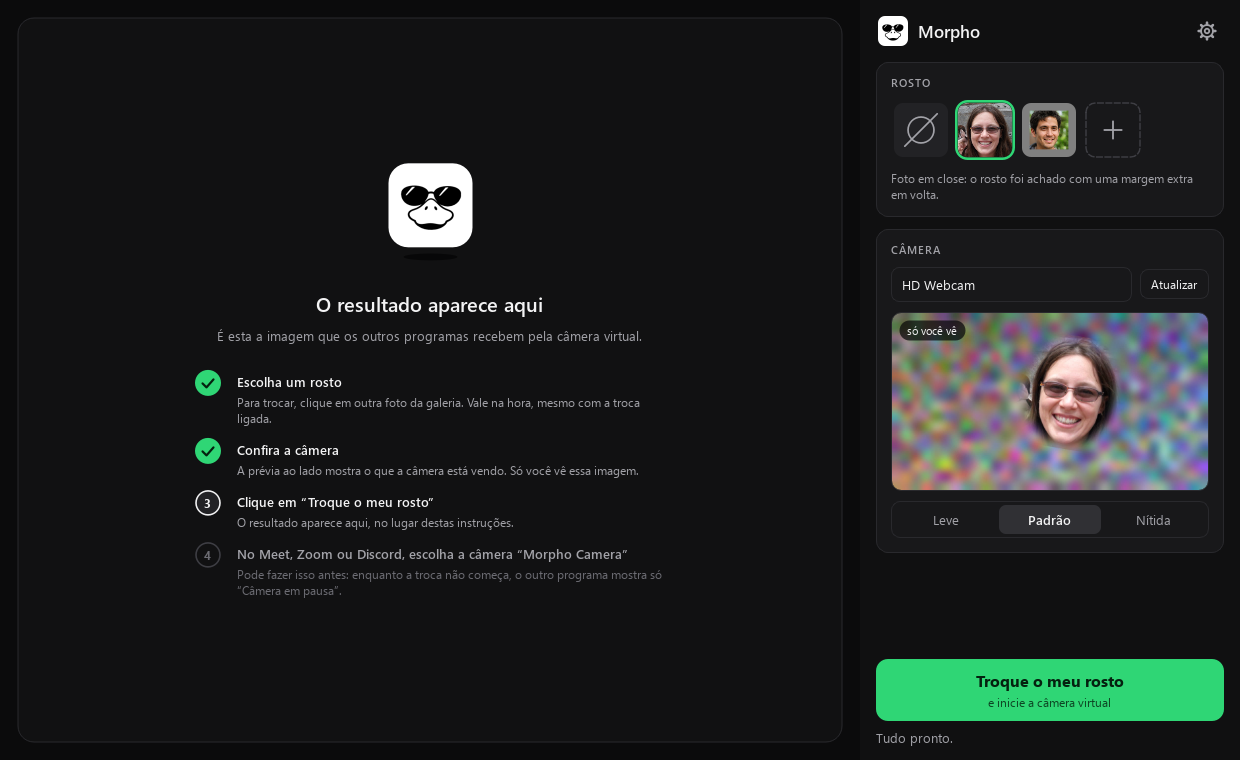
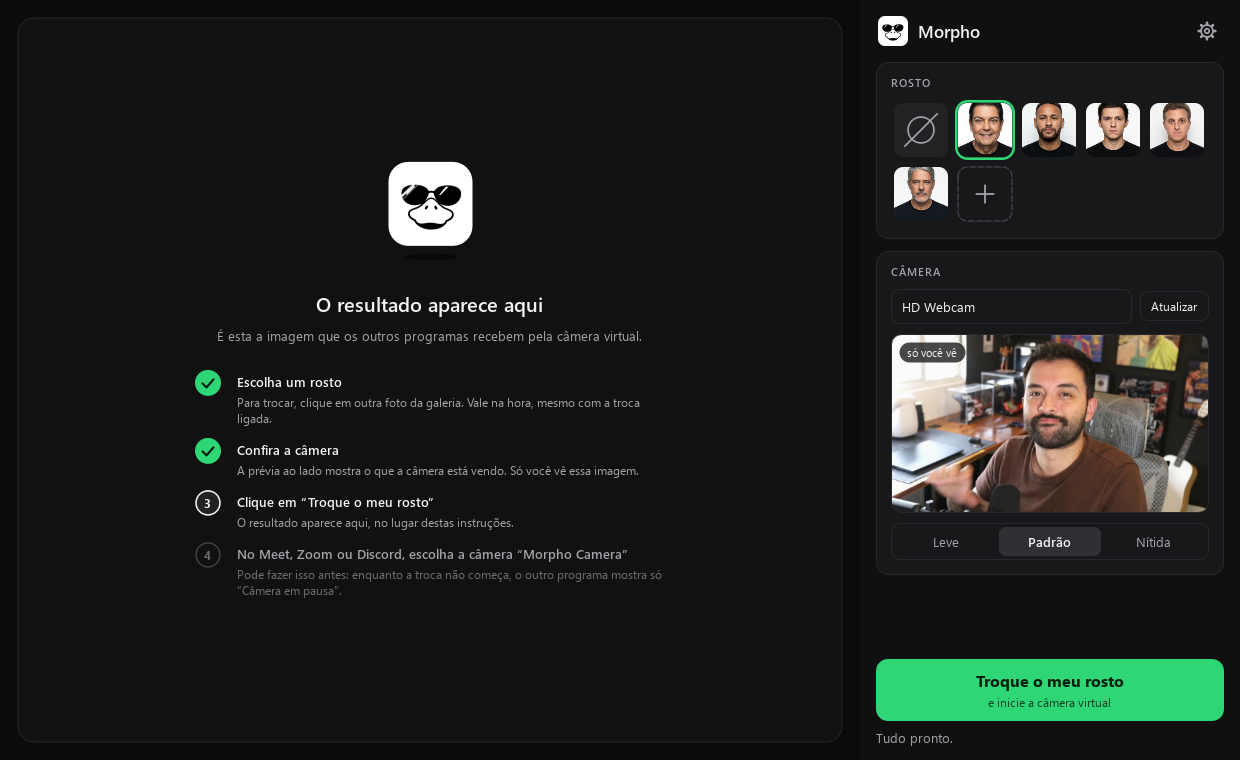
Capturas do README com a gravação e os rostos da demonstração
- docs/telas: as cinco capturas da janela agora usam a gravação e os rostos da
  demonstração da página (com autorização), no lugar das imagens de teste
- bench/make_screenshots.py gera as capturas com a janela de verdade, sem
  mostrá-la e sem transmitir pela câmera virtual

Changed region(s): [[0.7048, 0.3026, 0.9806, 0.7566], [0.7048, 0.1211, 0.9806, 0.2724], [0.3065, 0.2118, 0.3677, 0.3329]]

diff --git a/bench/make_screenshots.py b/bench/make_screenshots.py
@@ -1,0 +1,178 @@
+"""Gera as capturas de ``docs/telas`` com a janela de verdade, sem mostrá-la.
+
+    <python do motor> bench/make_screenshots.py --replay VIDEO --faces FOTO [FOTO ...] --out PASTA
+                                                [--camera NOME]
+
+Abre o app com um vídeo no lugar da webcam e grava em PASTA: ``carregando``, ``configuracoes``
+e várias opções de ``instrucoes-N``, ``tema-claro-N`` e ``ao-vivo-F-N`` (uma série por foto da
+galeria), tiradas em momentos diferentes do vídeo. É só escolher a melhor de cada e copiá-la
+para ``docs/telas`` sem o número. ``--camera`` é só o nome mostrado no campo da câmera: com
+``--replay`` a webcam não é aberta.
+
+A janela aparece como no uso comum, com a câmera virtual ligada nas configurações, mas nenhum
+quadro é enviado a ela: o pedido é desligado antes de chegar ao motor, para o vídeo de teste
+não aparecer numa chamada que esteja aberta neste computador.
+
+Usa a pasta de dados de teste (``MORPHO_DATA_DIR``) e a deixa como a encontrou. Em material
+público, só gravações e fotos de quem autorizou.
+"""
+from __future__ import annotations
+
+import argparse
+import json
+import os
+import shutil
+import sys
+import time
+
+PROJECT = os.path.dirname(os.path.dirname(os.path.abspath(__file__)))
+sys.path.insert(0, PROJECT)
+os.environ.setdefault("MORPHO_DATA_DIR", r"C:\Users\vinic\dlc-lab\app-data-test")
+os.environ["QT_QPA_PLATFORM"] = "offscreen"
+os.environ.setdefault("QT_QPA_FONTDIR", r"C:\Windows\Fonts")
+
+SIZE = (1240, 760)
+
+
+def main() -> int:
+    parser = argparse.ArgumentParser(description=__doc__, formatter_class=argparse.RawDescriptionHelpFormatter)
+    parser.add_argument("--replay", required=True, help="vídeo usado no lugar da câmera")
+    parser.add_argument("--faces", nargs="+", required=True, help="fotos da galeria, na ordem em que aparecem")
+    parser.add_argument("--out", required=True, help="pasta das capturas")
+    parser.add_argument("--camera", help="nome que aparece no campo da câmera (a webcam não é aberta)")
+    parser.add_argument("--ready-shots", type=int, default=6, help="opções de instrucoes e de tema-claro")
+    parser.add_argument("--live-shots", type=int, default=4, help="capturas ao vivo por foto")
+    options = parser.parse_args()
+    os.makedirs(options.out, exist_ok=True)
+
+    from app import paths
+    settings_file = os.path.join(paths.data_dir(), "settings.json")
+    backup = settings_file + ".antes-das-capturas"
+    if os.path.isfile(settings_file):
+        shutil.copyfile(settings_file, backup)
+    faces = [os.path.abspath(p) for p in options.faces]
+    with open(settings_file, "w", encoding="utf-8") as f:
+        json.dump(dict(faces=faces, face=faces[0], virtual_camera=True, preview=True, theme="dark",
+                       show_fps=True, show_faces=False), f)
+
+    sys.argv = [sys.argv[0], "--offscreen", "--replay", options.replay]
+    if options.camera:
+        sys.argv += ["--camera", options.camera]
+    from PySide6.QtCore import Qt
+    from PySide6.QtTest import QTest
+    from PySide6.QtWidgets import QApplication
+
+    from app.ui.__main__ import parse_args
+    from app.ui.engine_process import EngineProcess
+    from app.ui.main_window import MainWindow
+
+    # A tela mostra a câmera virtual ligada, mas o motor nunca recebe o pedido de transmitir.
+    real_send = EngineProcess.send
+
+    def send_without_camera(self, **command):
+        if command.get("virtual_camera"):
+            command["virtual_camera"] = False
+        return real_send(self, **command)
+
+    EngineProcess.send = send_without_camera
+
+    app = QApplication(sys.argv[:1])
+    window = MainWindow(parse_args())
+    window.resize(*SIZE)
+    window.show()
+
+    def wait(condition, seconds: float) -> bool:
+        deadline = time.time() + seconds
+        while time.time() < deadline:
+            app.processEvents()
+            if condition():
+                return True
+            time.sleep(0.01)
+        return False
+
+    def pause(seconds: float) -> None:
+        wait(lambda: False, seconds)
+
+    def shot(name: str) -> None:
+        window.grab().save(os.path.join(options.out, name + ".png"))
+        print("  " + name, flush=True)
+
+    def face_tiles():
+        return [t for t in window.gallery._tiles if t.kind == "face"]
+
+    def swap_fps() -> float:
+        stats = window.stats if (window.stats or {}).get("mode") == "live" else {}
+        return stats.get("swap_fps") or 0
+
+    transmitted = False
+    try:
+        # carregando: fica com a captura do meio da espera
+        loading = []
+        next_grab = time.time() + 0.6
+        deadline = time.time() + 240
+        while not window.loaded and time.time() < deadline:
+            app.processEvents()
+            if time.time() >= next_grab:
+                loading.append(window.grab())
+                next_grab = time.time() + 0.4
+            time.sleep(0.01)
+        if not window.loaded:
+            print("o motor não carregou")
+            return 1
+        if loading:
+            loading[len(loading) // 2].save(os.path.join(options.out, "carregando.png"))
+            print(f"  carregando ({len(loading)} opções, ficou a do meio)", flush=True)
+
+        ready = (wait(lambda: window.face_ok, 30) and wait(lambda: not window.view.celebrating, 10)
+                 and wait(lambda: bool(window.view.steps), 3)
+                 and wait(lambda: window.view.mascot.current() == "parado", 5))
+        pause(2.0)   # a prévia da câmera chega
+        print(f"pronto: {ready}; tamanho {window.width()}x{window.height()}", flush=True)
+        for number in range(1, options.ready_shots + 1):
+            shot(f"instrucoes-{number}")
+            pause(1.4)
+
+        window.theme_choice._group.buttons()[1].click()
+        pause(0.4)
+        for number in range(1, options.ready_shots + 1):
+            shot(f"tema-claro-{number}")
+            pause(1.4)
+        window.theme_choice._group.buttons()[0].click()
+        pause(0.4)
+
+        window.open_page(1)
+        pause(0.4)
+        shot("configuracoes")
+        window.open_page(0)
+        pause(0.3)
+
+        QTest.mouseClick(window.button, Qt.MouseButton.LeftButton)
+        live = wait(lambda: window.state == "running" and window.view.has_frame(), 40) and wait(lambda: swap_fps() > 15, 30)
+        print(f"ao vivo: {live}, {swap_fps():.0f} trocas por segundo", flush=True)
+        for index in range(len(face_tiles())):
+            if index:
+                QTest.mouseClick(face_tiles()[index], Qt.MouseButton.LeftButton)
+                window.refresh()
+            wait(lambda: window.face_ok and swap_fps() > 15, 20)
+            pause(2.5)
+            for number in range(1, options.live_shots + 1):
+                transmitted = transmitted or window.vcam_on
+                shot(f"ao-vivo-{index + 1}-{number}")
+                pause(1.3)
+            print(f"    foto {index + 1}: {swap_fps():.0f} trocas por segundo", flush=True)
+        transmitted = transmitted or window.vcam_on
+        QTest.mouseClick(window.button, Qt.MouseButton.LeftButton)
+        wait(lambda: window.state in ("idle", "preview"), 20)
+    finally:
+        window.close()
+        app.processEvents()
+        if os.path.isfile(backup):
+            shutil.move(backup, settings_file)
+    print("câmera virtual transmitiu durante as capturas: " + ("SIM (não devia)" if transmitted else "não"))
+    return 1 if transmitted else 0
+
+
+if __name__ == "__main__":
+    code = main()
+    sys.stdout.flush()
+    os._exit(code)

diff --git a/docs/desenvolvimento.md b/docs/desenvolvimento.md
@@ -98,7 +98,10 @@ Matrix na abertura e enquanto a troca inicia; Gritando quando a abertura termina
 enquanto falta escolher o rosto; Parado com tudo pronto e no cabeçalho; Dormindo se o motor
 parar. A passagem de uma para outra tem um pulinho (`Mascot.switch` em `app/ui/widgets.py`).
 
-Capturas da interface em `docs/telas/`.
+Capturas da interface em `docs/telas/`. Quem gera é `bench/make_screenshots.py`: abre a janela
+de verdade, sem mostrá-la, com um vídeo no lugar da webcam, e grava várias opções de cada tela
+para escolher. As que estão no repositório usam a gravação e os rostos da demonstração da
+página, todos com autorização; em material público, só o que foi autorizado.
 
 ## A câmera virtual "Morpho Camera"
 

diff --git a/README.md b/README.md
@@ -8,7 +8,7 @@ o OBS. Tudo roda no seu computador.
 
 ![Janela do Morpho com a troca ao vivo](docs/telas/ao-vivo.png)
 
-*Os rostos das capturas foram gerados por IA; não são de pessoas reais.*
+*Gravação e rostos usados com autorização.*
 
 ## O que ele faz
 
